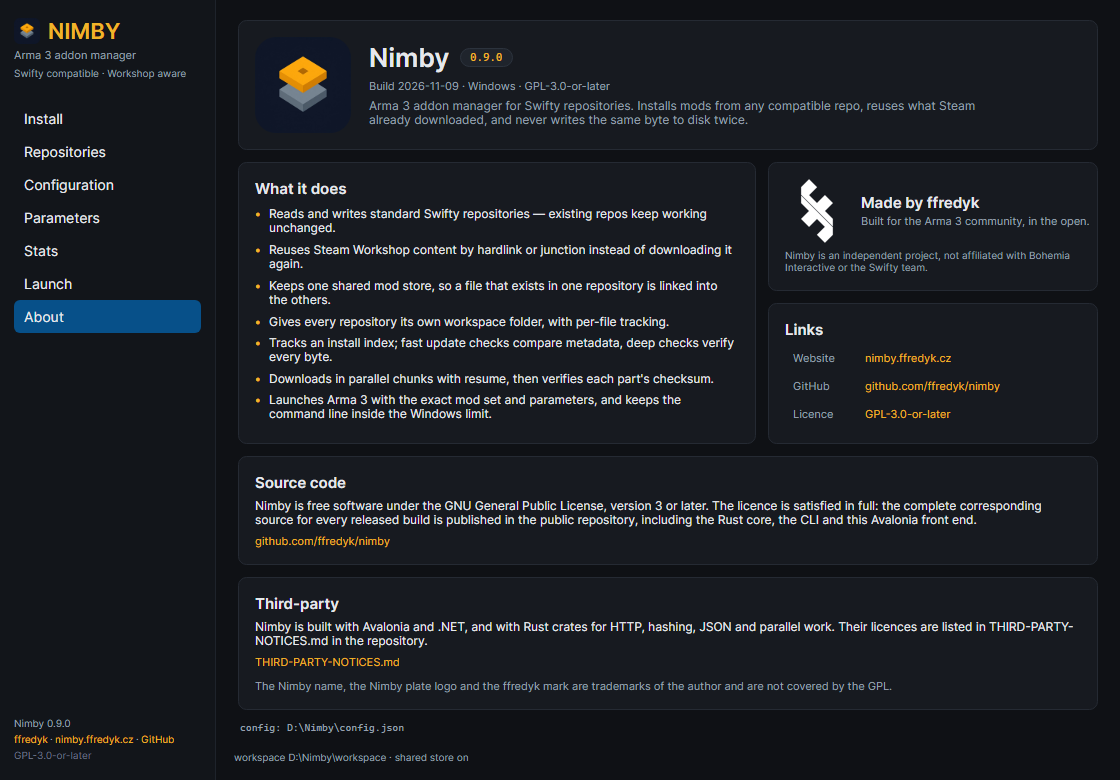
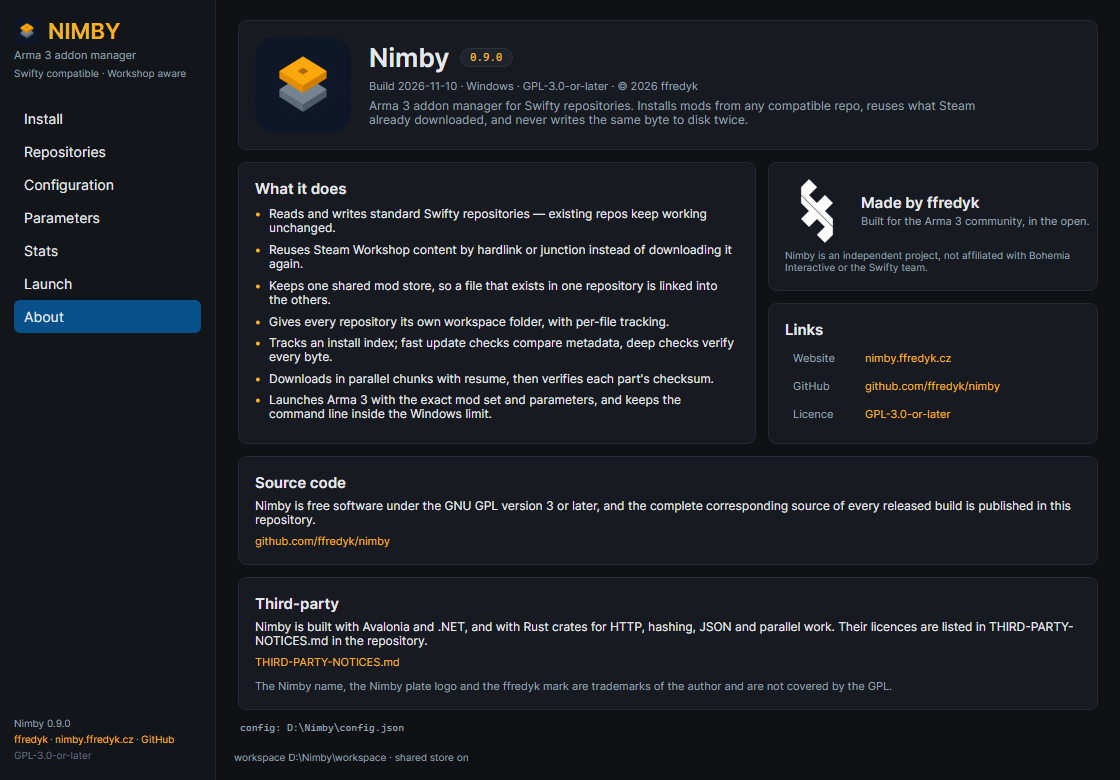
legal: make attribution a licence condition (GPL-3.0 section 7(b))
The GPL on its own does not require a derivative to display the author or the
project link: it only obliges keeping the notices and, for interactive UIs,
showing Appropriate Legal Notices. Attribution to ffredyk and to the repository
is now an explicit additional term under GPL-3.0 section 7(b).

- LICENSE-ADDITIONAL-TERMS.md: the terms (what to keep, where it must appear,
  no hidden attribution, notices about changes, trademarks)
- NOTICE and README: pointer to the terms next to the GPL notice
- About page: copyright in the build line; the licence row already carries the
  author, the repository link and the licence
- nimby doctor keeps printing the same credit for the CLI
- package.ps1 ships the new file; CHANGELOG, tutorial and screenshots updated

Changed region(s): [[0.2188, 0.6462, 0.9688, 0.6769], [0.4062, 0.0923, 0.625, 0.1231]]

diff --git a/gui/Nimby.App/Views/AboutView.axaml.cs b/gui/Nimby.App/Views/AboutView.axaml.cs
@@ -18,7 +18,7 @@ public partial class AboutView : UserControl, IRefreshable
         InitializeComponent();
 
         VersionText.Text = ShortVersion();
-        BuildText.Text = $"Build {BuildDate()} · Windows · GPL-3.0-or-later";
+        BuildText.Text = $"Build {BuildDate()} · Windows · GPL-3.0-or-later · © 2026 ffredyk";
     }
 
     /// <summary>"0.9.0" from the assembly, so the About page and the sidebar agree.</summary>

diff --git a/LICENSE-ADDITIONAL-TERMS.md b/LICENSE-ADDITIONAL-TERMS.md
@@ -1,0 +1,63 @@
+Additional terms under GNU GPL version 3, section 7(b)
+======================================================
+
+Nimby
+Copyright (C) 2026 ffredyk
+https://nimby.ffredyk.cz · https://github.com/ffredyk/nimby
+
+These are additional terms under section 7(b) of the GNU General Public
+License version 3 ("Requiring preservation of specified reasonable legal
+notices or author attributions in that material or in the Appropriate Legal
+Notices displayed by works containing it").
+
+They apply to the whole Nimby work: the Rust core, the `nimby` command line
+tool, the Avalonia desktop application, the build and packaging scripts and the
+documentation. They are a condition of the licence, not an additional
+permission, so a derivative that does not comply is not licensed under the GPL
+for this material. They add nothing else and take nothing else away from the
+GNU GPL: every freedom the GPL grants (use, study, share, modify, and
+redistribute including commercially) is unaffected.
+
+1. Attribution to preserve
+
+   If you convey Nimby or a work based on it (a "derivative"), you must keep
+   the following intact and legible:
+
+   - the copyright notice `Copyright (C) 2026 ffredyk`;
+   - the author credit `ffredyk`, in wording such as `Nimby by ffredyk` that
+     makes clear who wrote the original; and
+   - a working link to the original project: https://github.com/ffredyk/nimby
+     or https://nimby.ffredyk.cz.
+
+2. Where it must appear
+
+   At least in all of the following that the derivative has:
+
+   - its About, Credits or legal-notice screen, if it has an interactive user
+     interface;
+   - the output of its version, about, credit or doctor style command;
+   - the documentation shipped with its binaries or published with it
+     (README, manual, website download page);
+   - the copyright and licence headers of the source files you modify.
+
+3. No hidden or misleading attribution
+
+   The credit may not be removed, hidden, made unreadable, moved behind an
+   unrelated menu, or presented in a way that suggests the original author
+   wrote or endorses the derivative. Your own credit and your own copyright may
+   be added next to it.
+
+4. Notices about changes
+
+   This file does not replace GPL-3.0 section 5: modified versions must carry
+   prominent notices that you changed them and the date, and must keep the
+   licence notices intact.
+
+5. Trademarks
+
+   These terms grant no right to the "Nimby" name, the Nimby app icon or the
+   ffredyk mark. Those are brand assets outside the GPL; see NOTICE, section
+   "Brand assets".
+
+Where to find these terms: this file. A copy is shipped next to the binaries
+and lives at https://github.com/ffredyk/nimby/blob/main/LICENSE-ADDITIONAL-TERMS.md.

diff --git a/docs/TUTORIAL.md b/docs/TUTORIAL.md
@@ -45,7 +45,7 @@ then click past SmartScreen.
 | `docs\` | This tutorial, the repository format notes, the screenshots. |
 | `LICENSES\` | Licence texts of the third-party components. |
 | `README.md`, `CHANGELOG.md` | Project summary and release notes. |
-| `LICENSE`, `NOTICE`, `THIRD-PARTY-NOTICES.md` | Licence and attribution. |
+| `LICENSE`, `LICENSE-ADDITIONAL-TERMS.md`, `NOTICE`, `THIRD-PARTY-NOTICES.md` | Licence, attribution terms and third-party notices. |
 
 Keep `Nimby.exe` and `bin\nimby.exe` together — the CLI sits in `bin` because Windows
 cannot hold both `Nimby.exe` and `nimby.exe` in one folder. The GUI looks for
@@ -448,6 +448,13 @@ The name "Nimby", the app icon and the ffredyk mark are brand assets and are **n
 covered by the GPL; they may be used only to refer to unmodified Nimby builds.
 Third-party components (Avalonia, .NET, the Rust crates) are listed in
 `THIRD-PARTY-NOTICES.md`.
+
+**Forks must keep the credit.** Nimby carries additional terms under GPL-3.0
+section 7(b) (`LICENSE-ADDITIONAL-TERMS.md`): any derivative has to keep the copyright
+notice, the author name `ffredyk` and a link to <https://github.com/ffredyk/nimby> in its
+About/Credits screen, in the output of its version or about command, in its
+documentation and in the source files it modifies. Those terms are a licence condition,
+not an extra permission, and they do not restrict any GPL freedom.
 
 Nimby is an independent project, not affiliated with Bohemia Interactive, Steam or the
 Swifty team.

diff --git a/README.md b/README.md
@@ -178,6 +178,12 @@ Nimby is free software under the **GNU General Public License v3.0 or later**. T
 corresponding source of every released binary is this repository; see [LICENSE](LICENSE) and
 [NOTICE](NOTICE).
 
+Attribution is a licence condition, not a request: the **additional terms under GPL-3.0
+section 7(b)** in [LICENSE-ADDITIONAL-TERMS.md](LICENSE-ADDITIONAL-TERMS.md) require every
+derivative to keep the copyright notice, the credit **ffredyk** and a link to
+[github.com/ffredyk/nimby](https://github.com/ffredyk/nimby) in its About/Credits screen, its
+version or about command output, its documentation and the source files it modifies.
+
 The name "Nimby", the app icon and the ffredyk mark are brand assets and are **not** covered by the
 GPL — they may be used to refer to unmodified Nimby builds only. Third-party components (Avalonia,
 .NET, the Rust crates) are listed in [THIRD-PARTY-NOTICES.md](THIRD-PARTY-NOTICES.md), with the

diff --git a/CHANGELOG.md b/CHANGELOG.md
@@ -53,7 +53,10 @@ repositories, shipping as a portable Windows application (GUI plus CLI).
 - **Portable configuration** — configuration and the hash cache live in `data\`
   next to the executable when that folder is writable, falling back to
   `%APPDATA%\Nimby`. `NIMBY_CONFIG` overrides both.
-- **Licensing and attribution** — GPL-3.0-or-later, `NOTICE`,
+- **Licensing and attribution** — GPL-3.0-or-later with additional terms under
+  section 7(b) that require every derivative to keep the copyright notice, the
+  ffredyk credit and the repository link in its About/Credits screen, version
+  output and documentation; `NOTICE`, `LICENSE-ADDITIONAL-TERMS.md`,
   `THIRD-PARTY-NOTICES.md` with licence texts in `LICENSES/`, an About page with
   the website and source links, and a credit line in the GUI and in
   `nimby doctor`.
